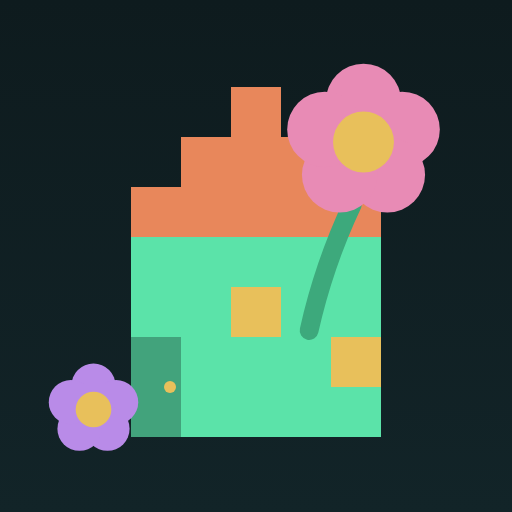
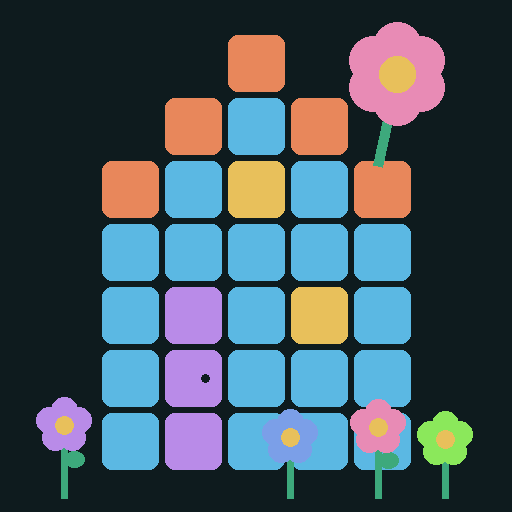
Icône : utilise la version retravaillée, sans les fleurs devant la porte
Reprend l'icône fournie (toit orange, fenêtre à l'étage, porte à
poignée + fenêtre au rez-de-chaussée, jardin de fleurs en bas) et
retire les deux fleurs qui masquaient la porte et le mur adjacent,
en reconstituant les cases concernées à l'identique. Bump du cache SW.

diff --git a/sw.js b/sw.js
@@ -2,7 +2,7 @@
    Avantage : chaque push sur GitHub met l'app à jour dès la prochaine
    ouverture avec connexion, et l'app reste utilisable hors ligne. */
 
-const CACHE = "maison-v7";
+const CACHE = "maison-v8";
 const ASSETS = [
   "./",
   "./index.html",